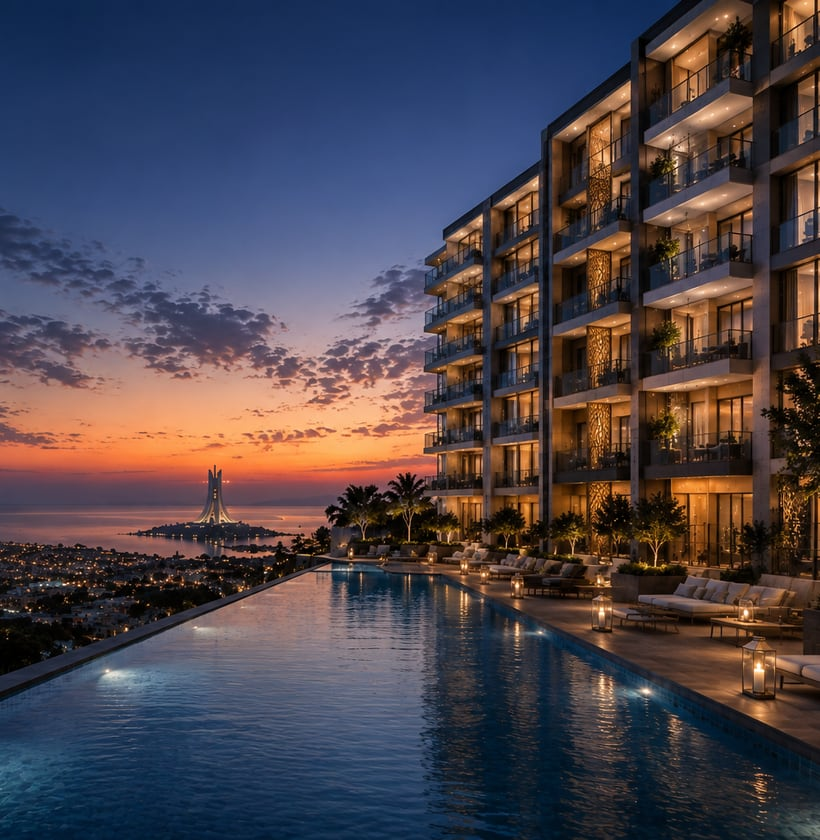
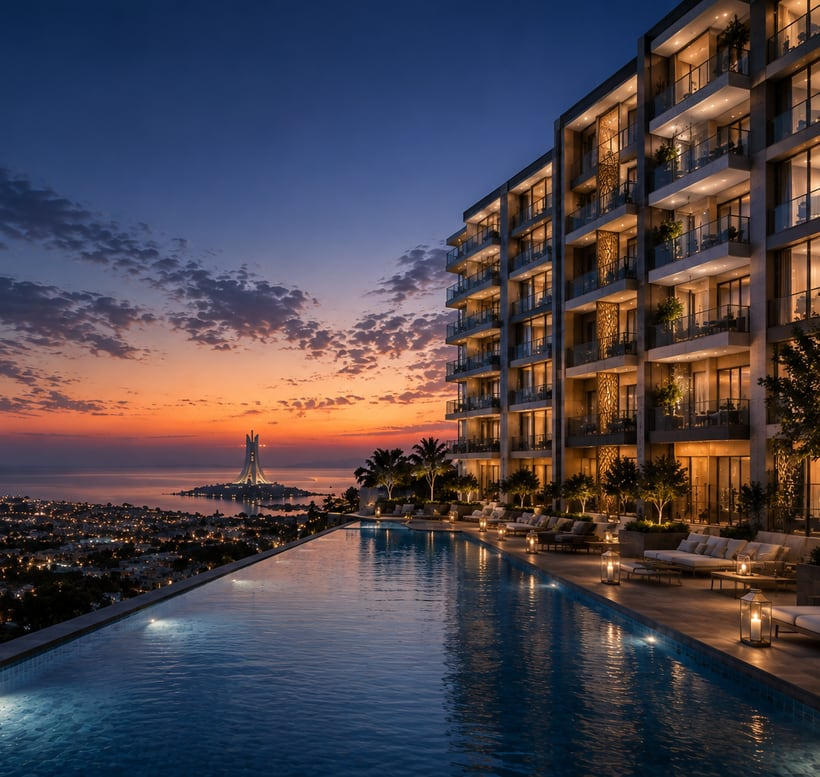
Symbole depuis le vrai fichier vectoriel, vraie icône WhatsApp, monument visible (#12)
- Le client a fourni le fichier vectoriel source du symbole (SVG/EPS). Remplace
  entièrement mon tracé à main levée par les chemins exacts d'origine (3 lames
  cuivre/argent + aile), recalibre la profondeur d'extrusion 3D pour la nouvelle
  échelle de coordonnées (corrige au passage la pixelisation/mauvaise rotation
  causée par un biseau devenu quasi dégénéré à l'ancienne échelle).
- Icône WhatsApp : remplace le tracé approximatif par le vrai logo (bulle +
  combiné téléphonique), rendu en aplat plutôt qu'en contour.
- Fond du hero recadré plus haut (moins de premier plan, plus de ciel) pour que
  le monument (Maqam Echahid) tombe dans une zone dégagée de texte/UI au lieu
  d'être caché sous la colonne de texte ou la barre de recherche.

diff --git a/index.html b/index.html
@@ -206,8 +206,8 @@ body.is-home .site-header.is-scrolled{background:rgba(10,10,10,.82);backdrop-fil
 /* ---------------- Hero ---------------- */
 .hero{position:relative;overflow:hidden;padding:130px 0 0;border-bottom:1px solid var(--border);background:radial-gradient(120% 100% at 85% 0%,#1c1310 0%,var(--noir) 55%);}
 .hero-bg{position:absolute;inset:0;z-index:0;}
-.hero-bg .hero-bg-photo{position:absolute;inset:0;background-image:url('/assets/hero-bg-mobile.jpg');background-size:cover;background-position:66% 32%;}
-@media (min-width:760px){.hero-bg .hero-bg-photo{background-image:url('/assets/hero-bg.jpg');background-position:60% 42%;}}
+.hero-bg .hero-bg-photo{position:absolute;inset:0;background-image:url('/assets/hero-bg-mobile.jpg');background-size:cover;background-position:26% 58%;}
+@media (min-width:760px){.hero-bg .hero-bg-photo{background-image:url('/assets/hero-bg.jpg');background-position:48% 68%;}}
 .hero-bg .sky-grad{position:absolute;inset:0;background:linear-gradient(115deg,rgba(10,10,10,.92) 8%,rgba(10,10,10,.62) 38%,rgba(10,10,10,.32) 58%,rgba(10,10,10,.7) 100%);}
 .hero-orb{position:absolute;border-radius:50%;filter:blur(60px);pointer-events:none;opacity:.55;z-index:0;}
 .hero-orb-1{width:420px;height:420px;background:radial-gradient(circle,rgba(183,110,77,.55),transparent 70%);top:-140px;right:-80px;animation:orbDrift1 16s ease-in-out infinite;}
@@ -764,7 +764,7 @@ var ICONS = {
   chart:'<path d="M4 20V10M11 20V4M18 20v-7"/><path d="M2 20h20"/>',
   shield:'<path d="M12 3 4.5 6v6c0 5 3.4 8.4 7.5 9 4.1-.6 7.5-4 7.5-9V6L12 3Z"/><path d="m9 12 2 2 4-4"/>',
   handshake:'<path d="m8 12 2.5 2.5c.6.6 1.6.6 2.2 0l.1-.1c.6-.6.6-1.6 0-2.2L11 10.4"/><path d="m11 10.4 1.8-1.8c.7-.7 1.9-.7 2.7-.1l3.5 2.7"/><path d="M2 10.5 6 7l4.3 3.6"/><path d="m22 10.5-4-3.5-2.2 1.8"/><path d="M2 10.5v3l3 3 2-1.5"/><path d="M22 10.5v3l-4.5 4-2-1.5"/>',
-  whatsapp:'<path d="M17.5 14.4c-.3-.1-1.7-.8-2-1-.3-.1-.5-.1-.7.1-.2.3-.7 1-.9 1.2-.2.2-.3.2-.6.1-.3-.1-1.3-.5-2.4-1.5-.9-.8-1.5-1.8-1.7-2.1-.2-.3 0-.5.1-.6.1-.1.3-.3.4-.5.1-.2.2-.3.3-.5.1-.2 0-.4 0-.5C10 9 9.5 7.8 9.3 7.3c-.2-.5-.4-.4-.5-.4h-.5c-.2 0-.5.1-.7.3-.3.3-1 1-1 2.4s1 2.8 1.2 3c.1.2 2 3.1 4.9 4.3.7.3 1.2.5 1.6.6.7.2 1.3.2 1.8.1.5-.1 1.7-.7 1.9-1.3.2-.6.2-1.2.2-1.3-.1-.1-.3-.2-.6-.3Z"/><path d="M12 21a9 9 0 1 0-7.8-4.5L3 21l4.6-1.2A9 9 0 0 0 12 21Z"/>',
+  whatsapp:'<path d="M17.472 14.382c-.297-.149-1.758-.867-2.03-.967-.273-.099-.471-.148-.67.15-.197.297-.767.966-.94 1.164-.173.199-.347.223-.644.075-.297-.15-1.255-.463-2.39-1.475-.883-.788-1.48-1.761-1.653-2.059-.173-.297-.018-.458.13-.606.134-.133.298-.347.446-.52.149-.174.198-.298.298-.497.099-.198.05-.371-.025-.52-.075-.149-.669-1.612-.916-2.207-.242-.579-.487-.5-.669-.51-.173-.008-.371-.01-.57-.01-.198 0-.52.074-.792.372-.272.297-1.04 1.016-1.04 2.479 0 1.462 1.065 2.875 1.213 3.074.149.198 2.096 3.2 5.077 4.487.709.306 1.262.489 1.694.625.712.227 1.36.195 1.871.118.571-.085 1.758-.719 2.006-1.413.248-.694.248-1.289.173-1.413-.074-.124-.272-.198-.57-.347M12.05 21.785h-.004a9.87 9.87 0 0 1-5.031-1.378l-.361-.214-3.741.982.998-3.648-.235-.374a9.86 9.86 0 0 1-1.51-5.26C2.168 6.443 6.603 2.008 12.05 2.008c2.64 0 5.122 1.03 6.988 2.898a9.825 9.825 0 0 1 2.893 6.994c-.003 5.45-4.437 9.884-9.885 9.884M20.463 3.488A11.815 11.815 0 0 0 12.05.108C5.495.108.16 5.443.157 12a11.87 11.87 0 0 0 1.588 5.945L.057 24.108l6.305-1.654a11.882 11.882 0 0 0 5.683 1.448h.005c6.554 0 11.89-5.335 11.893-11.893a11.821 11.821 0 0 0-3.48-8.413" fill-rule="evenodd"/>',
   chevronRight:'<path d="m9 6 6 6-6 6"/>',
   chevronLeft:'<path d="m15 6-6 6 6 6"/>',
   chevronDown:'<path d="m6 9 6 6 6-6"/>',
@@ -794,7 +794,10 @@ var ICONS = {
   logout:'<path d="M9 21H5a1 1 0 0 1-1-1V4a1 1 0 0 1 1-1h4"/><path d="m16 17 5-5-5-5"/><path d="M21 12H9"/>',
   key:'<circle cx="8" cy="15" r="4"/><path d="m11 12 8-8M16 4h4v4"/>'
 };
-function ic(name,cls){ return '<svg class="'+(cls||'i-def')+'" viewBox="0 0 24 24" fill="none" stroke="currentColor" stroke-width="1.6" stroke-linecap="round" stroke-linejoin="round">'+(ICONS[name]||'')+'</svg>'; }
+function ic(name,cls){
+  if(name==='whatsapp'){ return '<svg class="'+(cls||'i-def')+'" viewBox="0 0 24 24" fill="currentColor">'+ICONS.whatsapp+'</svg>'; }
+  return '<svg class="'+(cls||'i-def')+'" viewBox="0 0 24 24" fill="none" stroke="currentColor" stroke-width="1.6" stroke-linecap="round" stroke-linejoin="round">'+(ICONS[name]||'')+'</svg>';
+}
 
 /* ---------------- Logo ---------------- */
 function logoHTML(size){
@@ -2359,11 +2362,11 @@ function mountHeroSymbol3D(){
 
   var loader = new SVGLoader();
   loader.load('/assets/symbol.svg', function(data){
-    var extrudeSettings = {depth:14, bevelEnabled:true, bevelThickness:1.3, bevelSize:0.9, bevelSegments:3, curveSegments:24};
+    var extrudeSettings = {depth:48, bevelEnabled:true, bevelThickness:6, bevelSize:4.2, bevelSegments:3, curveSegments:24};
     data.paths.forEach(function(path){
       var id = (path.userData && path.userData.node && path.userData.node.getAttribute('id')) || '';
       if(id.indexOf('Fold') !== -1) return; // flat shading hints for the 2D SVG only; real lighting replaces them in 3D
-      var mat = id === 'symArmCopper' ? copperMat : silverMat;
+      var mat = id.indexOf('Rose') !== -1 ? copperMat : silverMat;
       SVGLoader.createShapes(path).forEach(function(shape){
         var geo = new THREE.ExtrudeGeometry(shape, extrudeSettings);
         group.add(new THREE.Mesh(geo, mat));
